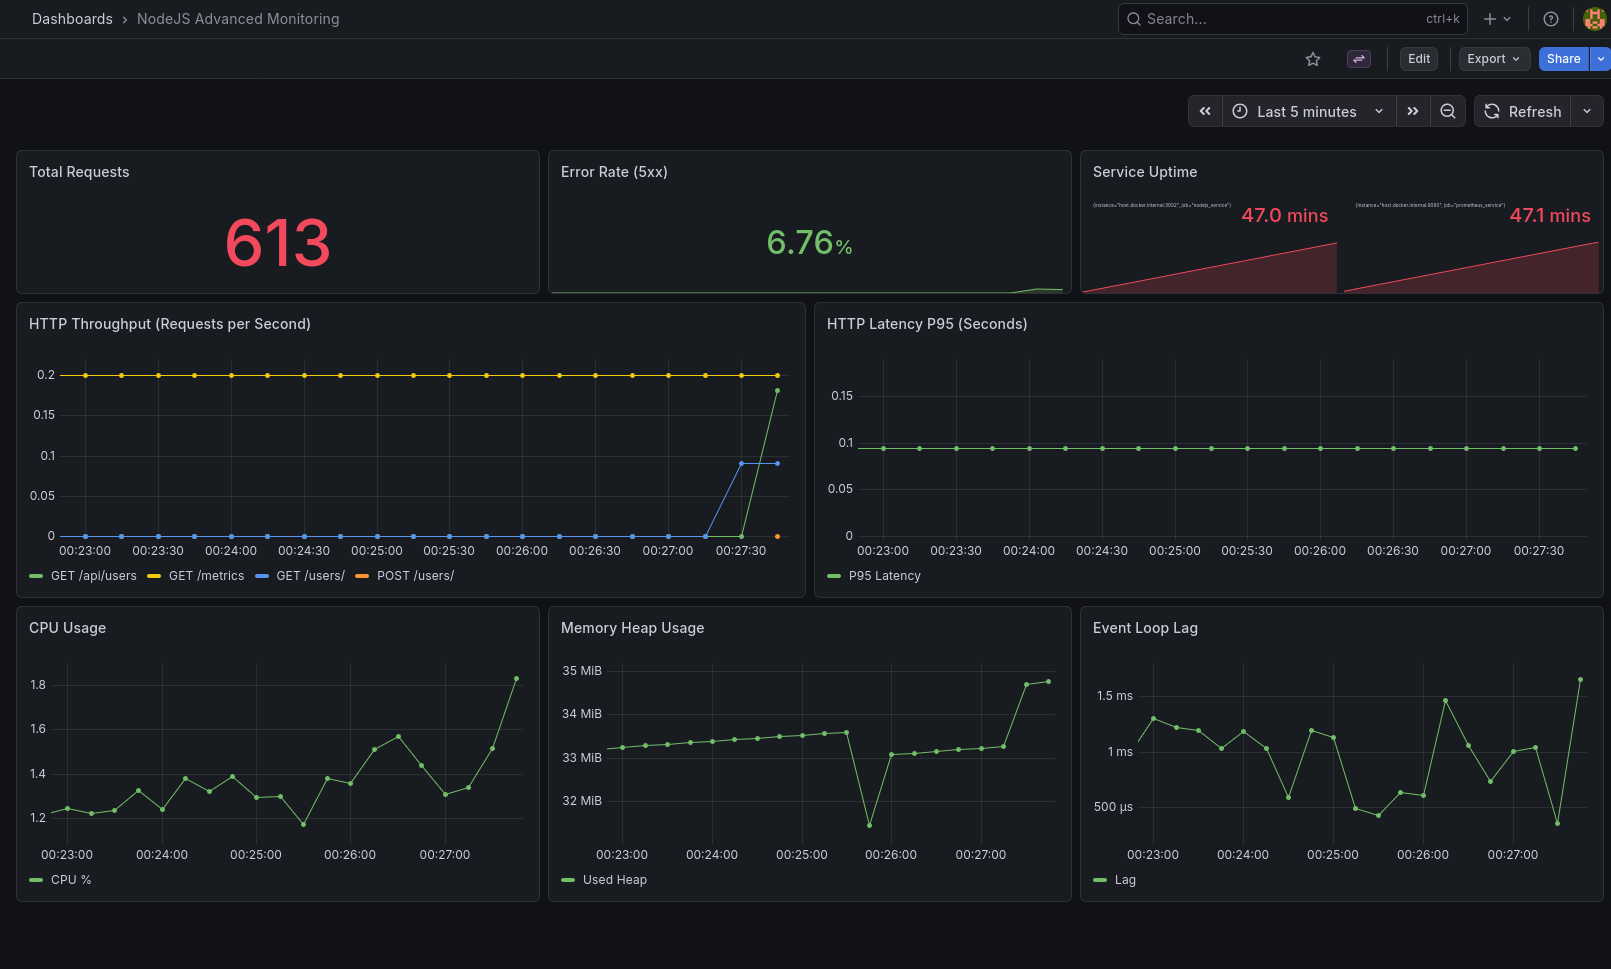
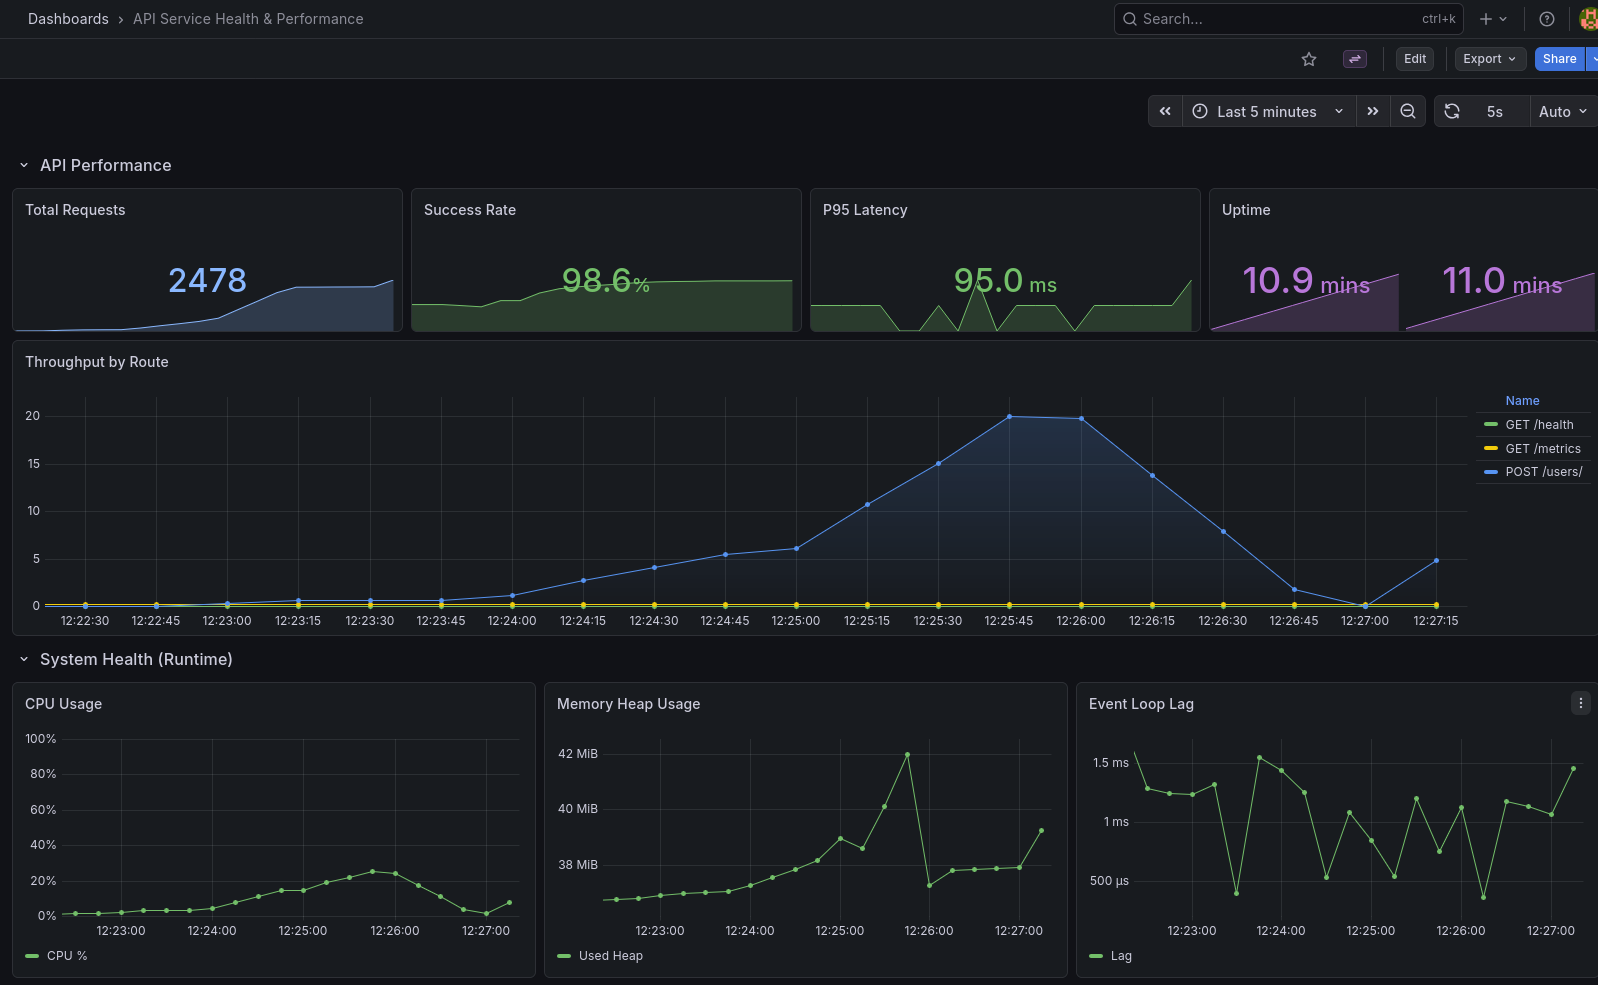
finish

diff --git a/src/content/blog/observability/index.md b/src/content/blog/observability/index.md
@@ -1,12 +1,15 @@
 ---
-title: 'Más allá del Up/Down: Por qué el monitoreo no te alcanza para dormir tranquilo'
-summary: "En arquitecturas distribuidas, un servicio que responde '200 OK' no siempre está sano. Para lograr una verdadera resiliencia, necesitamos entender la diferencia entre saber que algo falló (Monitoreo) y entender por qué falló (Observabilidad). Es la transición de la reacción ante incidentes a la comprensión profunda del sistema."
-date: '2026-03-21'
+title: 'Sistemas que hablan: El arte de lograr que tu aplicación te cuente por qué falló'
+summary: "En el mundo digital, que un sistema esté 'prendido' no significa que esté funcionando bien. Este post explora cómo pasar de la simple vigilancia a la comprensión profunda de nuestra tecnología, garantizando que el negocio nunca camine a ciegas."
+date: '2026-03-23'
 draft: false
 tags:
-  - Typescript
-  - Observabilidad
   - Backend
+  - SRE
+  - Observability
+  - OpenTelemetry
+  - Grafana
+  - Distributed Tracing
 ---
 
 ## El fin de la era "Up/Down"
@@ -23,7 +26,7 @@ Es común confundir estos términos, pero la distinción es clara:
 
 ## Impacto en la operación y el negocio
 Implementar una estrategia sólida de observabilidad y monitoreo no es un "lujo" técnico, es una inversión que impacta directamente en la eficiencia del equipo y en la rentabilidad del producto. Estos son los problemas concretos que logramos mitigar:
-- **Reducción drástica del MTTR (Mean Time To Recovery):** Sin observabilidad, ante un fallo en producción el equipo pierde horas tratando de adivinar el origen del problema. Al tener trazabilidad completa, pasamos de la suposición al diagnóstico basado en datos en cuestión de minutos. Esto nos ahorra cientos de horas de ingeniería al año y minimiza el impacto en el usuario final.
+- **Reducción drástica del MTTR (Mean Time To Resolution):** Sin observabilidad, ante un fallo en producción el equipo pierde horas tratando de adivinar el origen del problema. Al tener trazabilidad completa, pasamos de la suposición al diagnóstico basado en datos en cuestión de minutos. Esto nos ahorra cientos de horas de ingeniería al año y minimiza el impacto en el usuario final.
 - **Detección de "fallos grises" antes que el cliente**: El monitoreo tradicional nos avisa cuando algo se cae, pero la observabilidad nos muestra cuando algo está funcionando mal (ejemplo, un P95 de latencia que se dispara aunque el promedio parezca normal). Esto nos permite intervenir proactivamente antes de que los usuarios reporten problemas, protegiendo la reputación de la empresa.
 - **Validación objetiva de deploys y features:** Elimina la incertidumbre técnica tras un lanzamiento. Al monitorear flujos internos en tiempo real, podemos validar si una nueva funcionalidad se comporta como esperamos bajo carga real. Si algo sale mal, lo detectamos al instante, permitiendo un rollback seguro o un hotfix preciso, evitando regresiones costosas.
 - **Eliminación del sesgo en la toma de decisiones:** Un sistema observable permite que las discusiones sobre escalabilidad o cambios arquitectónicos dejen de ser opiniones subjetivas. Contar con métricas históricas y correlación de eventos permite al negocio planificar el crecimiento sobre una base sólida de datos reales.
@@ -43,15 +46,30 @@ La realidad es que hoy en día tenemos muchas maneras de hacerlo, desde opciones
 
 Link al repo: https://github.com/PatricioPoncini/opentelemetry-express-bun
 
-Este repositorio contiene un servicio básico que utilizando [Opentelemetry](https://opentelemetry.io/) permite visualizar en Grafana un dashboard pre-configurado muy básico de salud del sistema, entre otras cosas. Dentro del archivo `README.md` vas a poder encontrar como levantarlo localmente, te invito a que lo hagas para que puedas explorar un poco como funciona la plataforma y que información te permite obtener.
-
-Para este ejemplo, utilicé un stack moderno y eficiente:
-- **Runtime:** Bun por su performance y manejo nativo de TS.
-- **Logs:** Pino con transporte a Loki para tener logs estructurados y rápidos de consultar.
-- **Métricas:** Prometheus capturando las Golden Signals (Latencia, Tráfico, Errores).
+Este repositorio contiene un servicio básico que utilizando [Opentelemetry](https://opentelemetry.io/) permite visualizar en Grafana un dashboard pre-configurado muy básico de salud del sistema, entre otras cosas. Dentro del archivo `README.md` vas a poder encontrar como levantarlo localmente y algunos ejemplos de lo que te encontrarás dentro, te invito a que lo clones para que puedas explorar un poco como funciona la plataforma y que información te permite obtener.
 
 ![Dashboard](/photos/grafana_dashboard.png)
 
-El objetivo de este mini proyecto (y de este posteo) es poder mostrar porque es realmente importante poder monitorear tu sistema y poder hacer uso de la observabilidad sobre el mismo. No solamente son ventajas que te van a ayudar en el desarrollo del día a día, sino que también ayuda cuando todo se está prendiendo fuego y debemos encontrar una solución lo más pronto posible.
+## El Stack: Observabilidad unificada y estándar
 
-La pregunta que nos tenemos que hacer como ingenieros no es si nuestro sistema está funcionando ahora, sino qué tan rápido podemos entender por qué falló cuando el dashboard se ponga rojo. La observabilidad no es un "nice to have"; es el seguro de vida de nuestra infraestructura.
+Para este proyecto, diseñé un ecosistema de observabilidad basado en OpenTelemetry. La idea central es desacoplar la aplicación de los proveedores de monitoreo, permitiendo que el sistema sea agnóstico y escalable:
+- **Runtime ([Bun](https://bun.com/)):** Usamos Bun para aprovechar su velocidad de ejecución y soporte nativo de TypeScript.
+- **Métricas agregadas ([Prometheus](https://prometheus.io/)):** Medimos las Golden Signals (Latencia, Tráfico, Errores y Saturación) para entender la salud global y disparar alertas antes de que el usuario note una degradación.
+- **Logs estructurados ([Loki](https://grafana.com/oss/loki/)):** Pasamos del texto plano al dato crudo. Al centralizar logs en formato JSON, podemos realizar consultas complejas en milisegundos, filtrando por contextos específicos de la aplicación.
+- **Trazabilidad distribuida ([Jaeger](https://www.jaegertracing.io/)):** Nos permite desglosar el tiempo de respuesta y entender exactamente qué componente (código, base de datos o servicios externos) está dificultando la experiencia del usuario.
+
+## Conclusión
+La verdadera diferencia entre un sistema que "monitorea" y uno que es "observable" no está en los dashboards bonitos, sino en la capacidad de responder preguntas que no previmos al momento de programar.
+
+Implementar este stack no es solo una mejora técnica; es una transformación en la forma en que operamos:
+- **Reducción del MTTR (Mean Time To Resolution):** En un sistema sin observabilidad, encontrar la causa raíz de un error intermitente puede llevar horas de "prueba y error". Con este enfoque, pasamos de la sospecha a la evidencia en segundos, reduciendo drásticamente el tiempo de inactividad.
+- **Eliminación del context switching:** Al tener métricas, logs y trazas correlacionados en una sola plataforma, el desarrollador no necesita saltar entre cinco herramientas distintas. El flujo de diagnóstico es continuo: ves el pico de latencia, entrás al log y saltás a la traza. Todo en un solo movimiento.
+- **Confianza en el despliegue:** Saber exactamente cómo se comporta tu código en producción te permite iterar más rápido. La observabilidad se convierte en el "seguro de vida" que permite al equipo de ingeniería innovar sin miedo a los efectos colaterales.
+
+En última instancia, como desarrolladores, nuestro trabajo no termina cuando el código compila o el test pasa en verde. Nuestro trabajo termina cuando garantizamos que el sistema es transparente y predecible.
+
+La pregunta no es si tu sistema va a fallar (porque eventualmente lo hará), sino qué tan rápido podés entender por qué ocurrió para que no vuelva a pasar. La observabilidad no es un costo extra; es la base sobre la cual se construye software de calidad.
+
+---
+
+**Si llegaste hasta acá, muchas gracias por leer 😄 ¡Nos vemos en el próximo posteo!**
